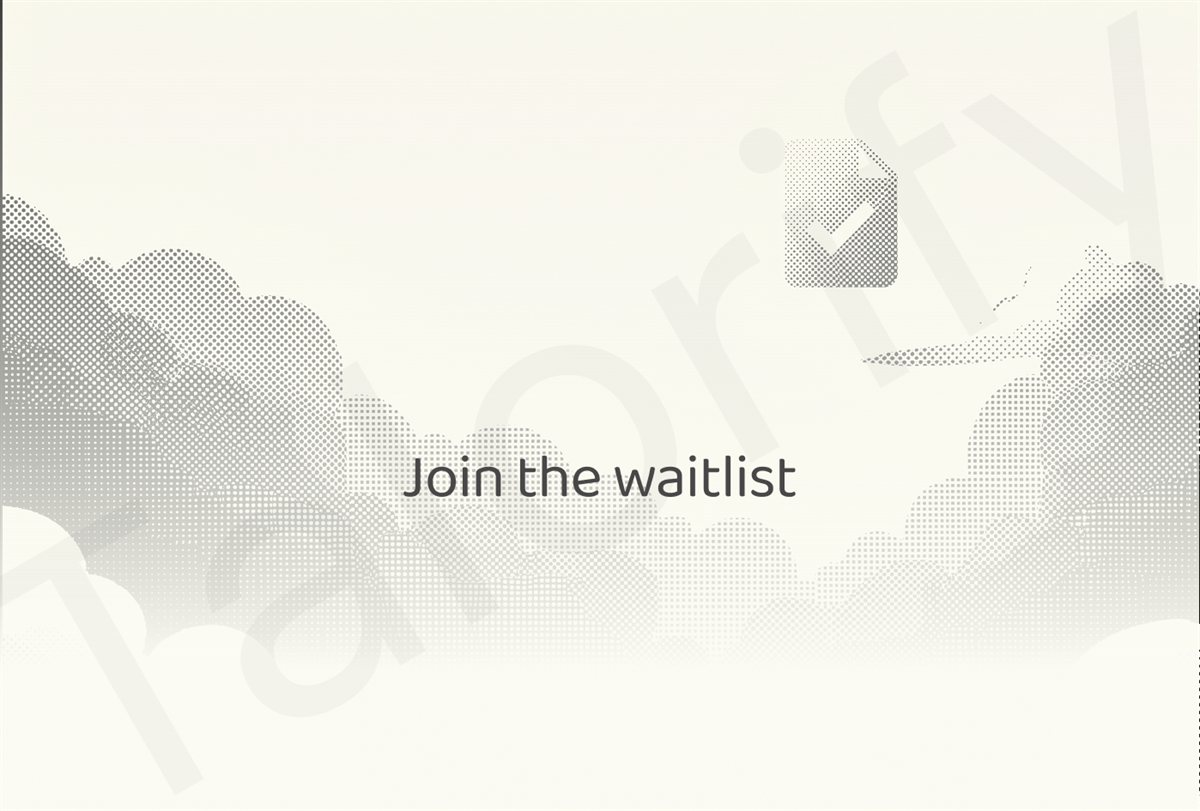
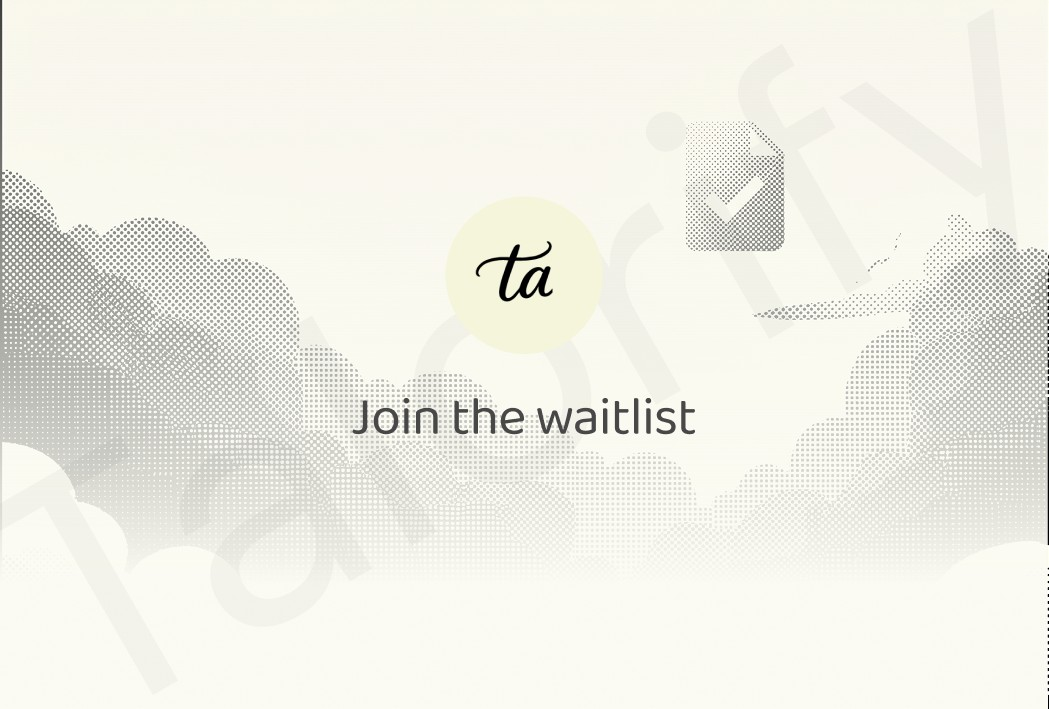
fix(social): implement and link uploaded social-cover with og dimensions and description

diff --git a/waitlist/index.html b/waitlist/index.html
@@ -16,9 +16,12 @@
   <meta property="og:url" content="https://waitlist.kre8mind.com/" />
   <meta property="og:site_name" content="Talorify" />
   <meta property="og:title" content="Talorify — Get Past the Filters &amp; Land the Interview." />
-  <meta property="og:image" content="https://waitlist.kre8mind.com/assets/social-cover.jpg" />
-  <meta property="og:image:secure_url" content="https://waitlist.kre8mind.com/assets/social-cover.jpg" />
-  <meta property="og:image:type" content="image/jpeg" />
+  <meta property="og:description" content="Tailorify analyzes every job description and intelligently tailors your resume with the keywords that matter so you can stand out to ATS and recruiters." />
+  <meta property="og:image" content="https://waitlist.kre8mind.com/assets/social-cover.png" />
+  <meta property="og:image:secure_url" content="https://waitlist.kre8mind.com/assets/social-cover.png" />
+  <meta property="og:image:type" content="image/png" />
+  <meta property="og:image:width" content="1049" />
+  <meta property="og:image:height" content="709" />
   <meta property="og:image:alt" content="Talorify — Join the Waitlist" />
 
   <!-- Twitter / X -->
@@ -26,7 +29,7 @@
   <meta name="twitter:url" content="https://waitlist.kre8mind.com/" />
   <meta name="twitter:title" content="Talorify — Get Past the Filters &amp; Land the Interview." />
   <meta name="twitter:description" content="Tailorify analyzes every job description and intelligently tailors your resume with the keywords that matter so you can stand out to ATS and recruiters." />
-  <meta name="twitter:image" content="https://waitlist.kre8mind.com/assets/social-cover.jpg" />
+  <meta name="twitter:image" content="https://waitlist.kre8mind.com/assets/social-cover.png" />
   <meta name="twitter:image:alt" content="Talorify — Join the Waitlist" />
   
   <!-- Typography: DM Sans (Main) & Baloo Chettan 2 (Support) -->
